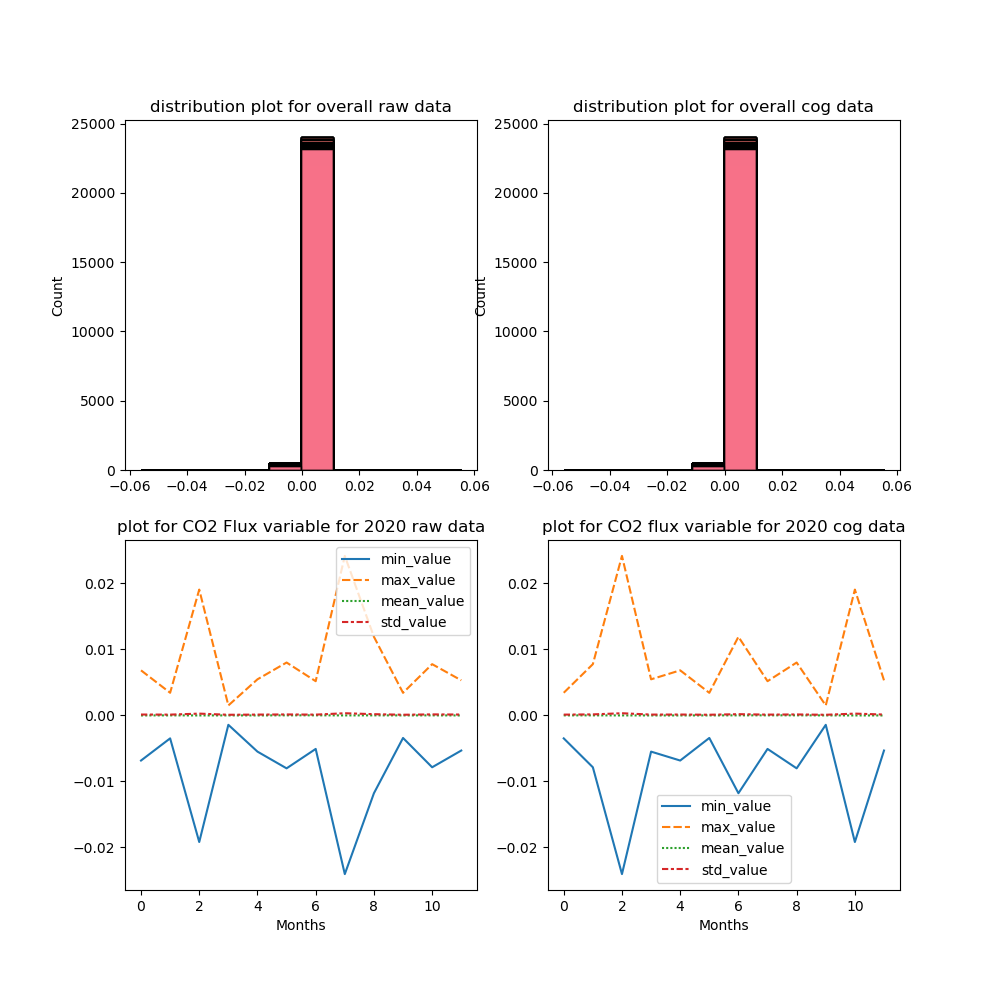
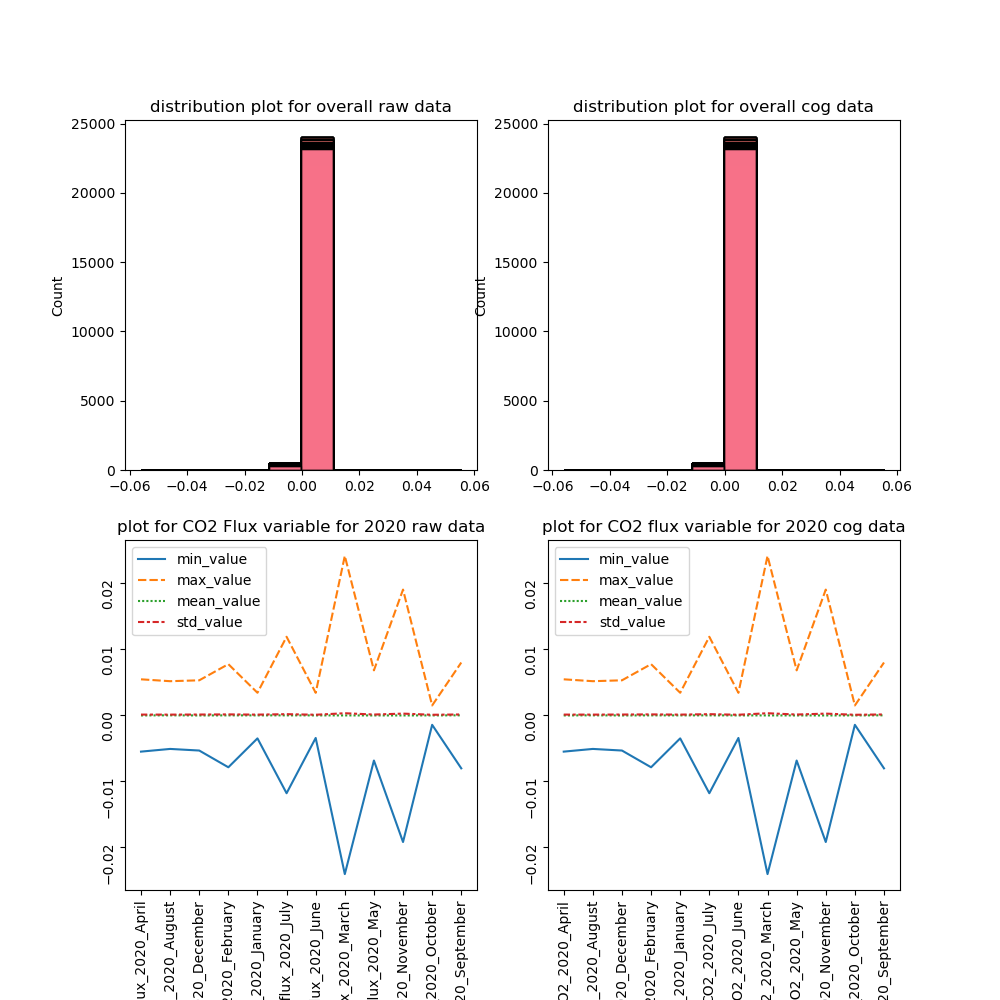
generated new statistics plots

diff --git a/generating_statistics_for_validation/eccodarwin-co2flux-monthgrid-v5/eccodarwin-co2flux-monthgrid-v5-generate-statistics.py b/generating_statistics_for_validation/eccodarwin-co2flux-monthgrid-v5/eccodarwin-co2flux-monthgrid-v5-generate-statistics.py
@@ -56,7 +56,7 @@ def get_all_s3_keys(bucket):
 keys = get_all_s3_keys(bucket_name)
 
 # List all TIFF files in the folder
-tif_files = glob("data/eccodarwin-co2flux-monthgrid-v5/*.nc", recursive=True)
+tif_files = glob("../../data/eccodarwin-co2flux-monthgrid-v5/*.nc", recursive=True)
 session = rasterio.env.Env()
 summary_dict_netcdf, summary_dict_cog = {}, {}
 overall_stats_netcdf, overall_stats_cog = {}, {}
@@ -194,44 +194,41 @@ with open("overall_stats.json", "w") as fp:
 
 
 fig, ax = plt.subplots(2, 2, figsize=(10, 10))
-# plt.Figure(figsize=(10, 10))
-# temp_df = pd.DataFrame()
-# for key_value in full_data_df_netcdf.index.values:
-#     if key_value[0].startswith("GEOS_XCO2PREC_"):
-#         temp_df = temp_df._append(full_data_df_netcdf.loc[key_value])
+
 sns.histplot(data=full_data_df_netcdf, kde=False, bins=10, legend=False, ax=ax[0][0])
 ax[0][0].set_title("distribution plot for overall raw data")
 
-# temp_df = pd.DataFrame()
-# for key_value in full_data_df_cog.index.values:
-#     if key_value[0].startswith("GEOS_XCO2PREC_"):
-#         temp_df = temp_df._append(full_data_df_cog.loc[key_value])
 sns.histplot(data=full_data_df_cog, kde=False, bins=10, legend=False, ax=ax[0][1])
 ax[0][1].set_title("distribution plot for overall cog data")
 
-temp_df = pd.DataFrame()
+temp_df_1 = pd.DataFrame()
 for key_value in summary_dict_netcdf.keys():
     if key_value.startswith("CO2_flux_2020"):
-        temp_df = temp_df._append(summary_dict_netcdf[key_value], ignore_index=True)
+        temp_df_1[key_value] = summary_dict_netcdf[key_value]
+temp_df_1 = temp_df_1.T
+temp_df_1.sort_index(ascending = True, inplace=True)
 
 sns.lineplot(
-    data=temp_df,
+    data=temp_df_1,
     ax=ax[1][0],
 )
 ax[1][0].set_title("plot for CO2 Flux variable for 2020 raw data")
 ax[1][0].set_xlabel("Months")
+ax[1][0].tick_params(labelrotation=90)
 
-temp_df = pd.DataFrame()
+temp_df_2 = pd.DataFrame()
 for key_value in summary_dict_cog.keys():
     if key_value.startswith("CO2_2020"):
-        temp_df = temp_df._append(summary_dict_cog[key_value], ignore_index=True)
+        temp_df_2[key_value] = summary_dict_cog[key_value]
+temp_df_2 = temp_df_2.T
+temp_df_2.sort_index(ascending = True, inplace=True)
 sns.lineplot(
-    data=temp_df,
+    data = temp_df_2,
     ax=ax[1][1],
 )
 ax[1][1].set_title("plot for CO2 flux variable for 2020 cog data")
 ax[1][1].set_xlabel("Months")
-
+ax[1][1].tick_params(labelrotation=90)
 
 plt.savefig("stats_summary.png")
 plt.show()
